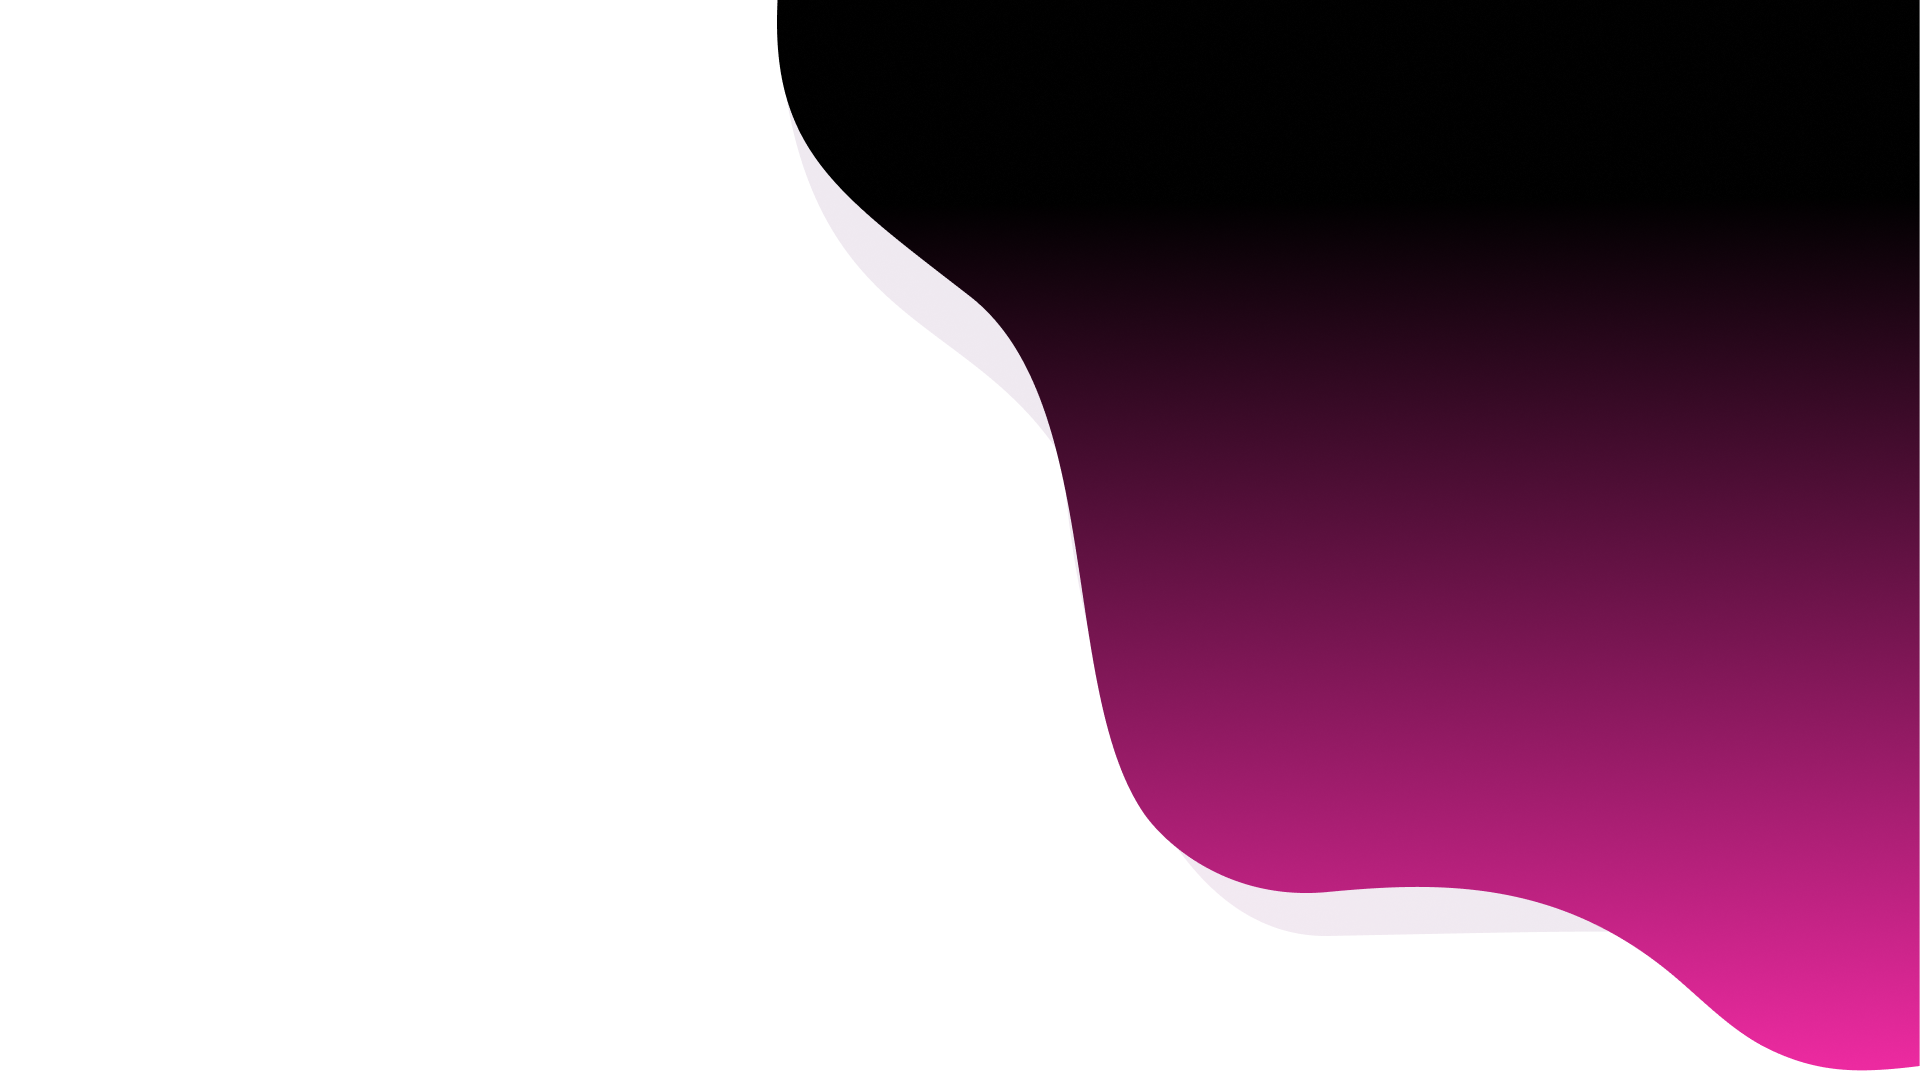
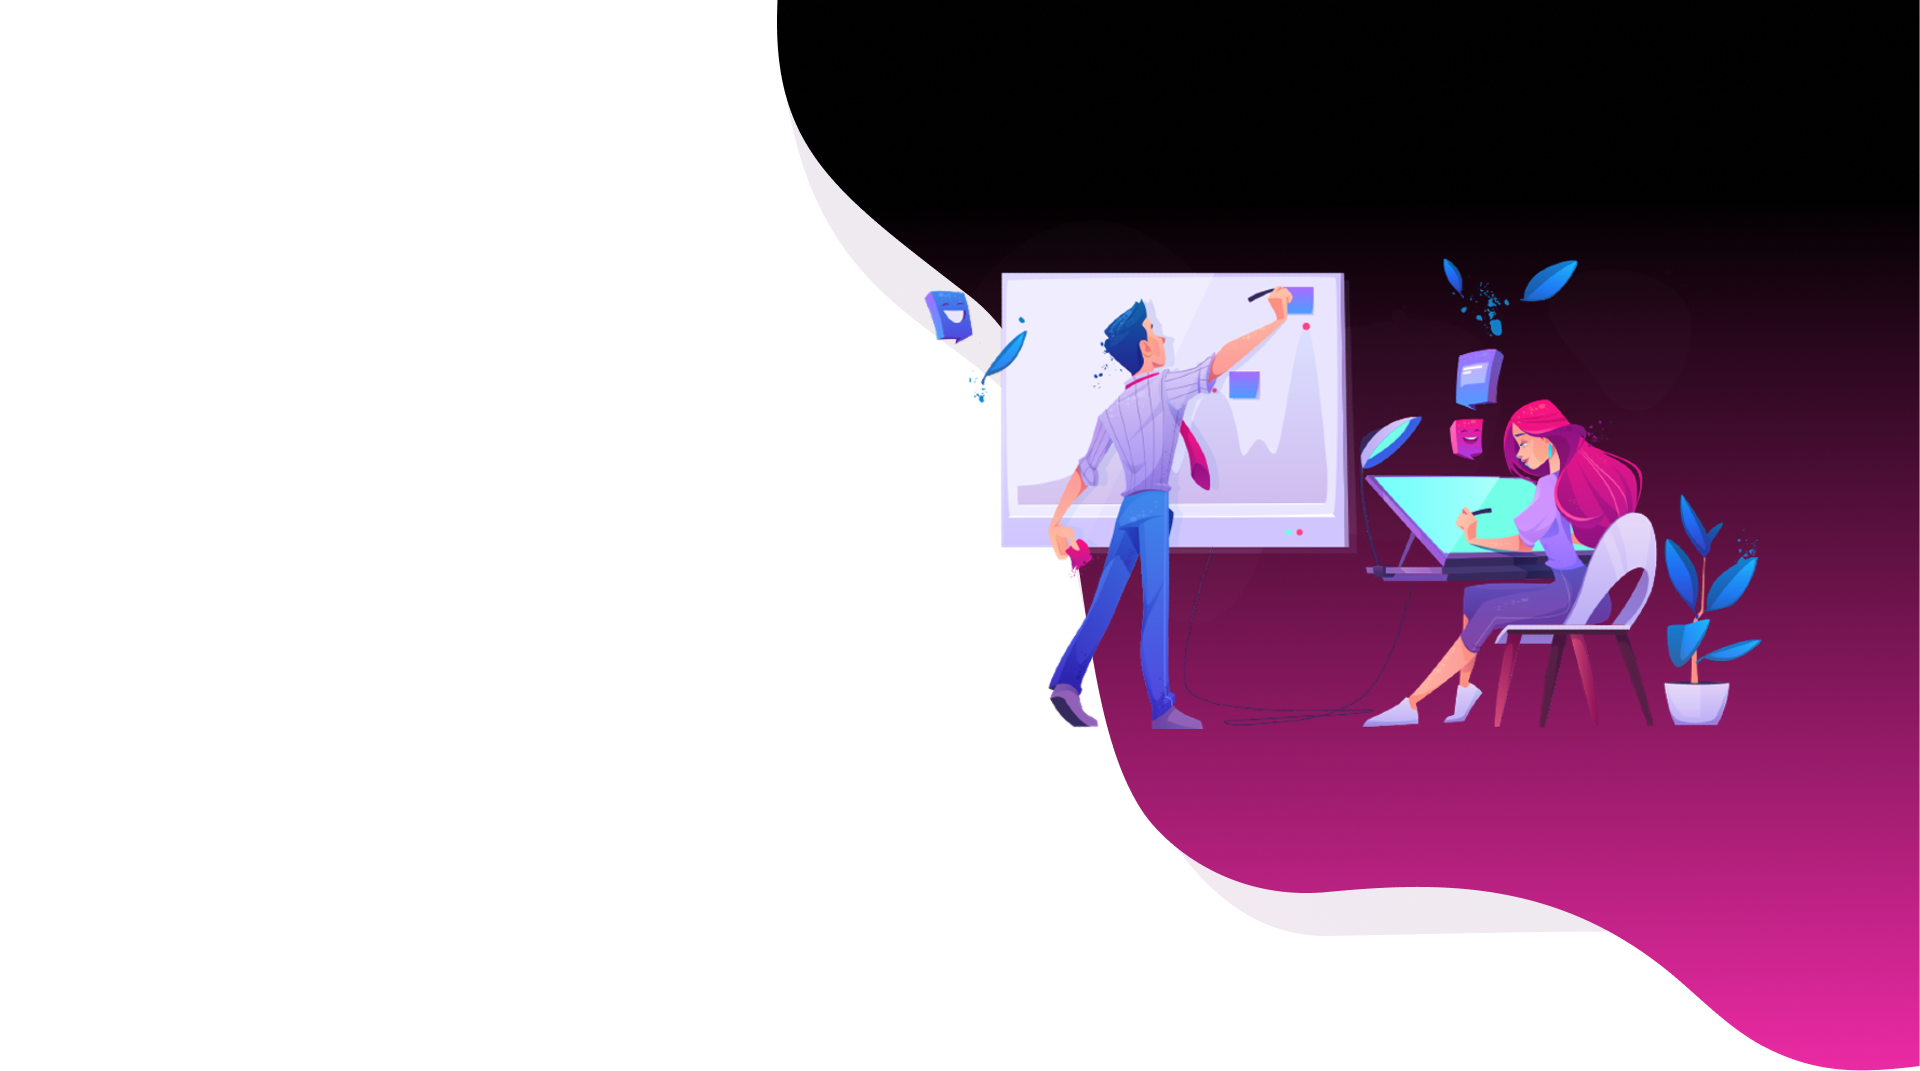
change home background image

Changed region(s): [[0.4688, 0.2465, 0.9375, 0.6779]]

diff --git a/public/assets/css/responsive.css b/public/assets/css/responsive.css
@@ -64,7 +64,7 @@ input#phoneHidden {
     .container-md,
     .container-lg,
     .container-xl {
-        max-width: 966px!important;
+        max-width: 1000px!important;
     }
 }
 
@@ -128,7 +128,11 @@ input#phoneHidden {
     .container-sm,
     .container-md,
     .container-lg {
-        max-width: 1020px!important;
+        /* max-width: 1020px!important; */
+        max-width: 1209px!important;
+    }
+    .nav-menu-fix23 {
+        width: 1024px;
     }
 }
 
@@ -377,7 +381,7 @@ input#phoneHidden {
         height: 60px!important;
     }
     .hero-banner-1 {
-        padding-top: 375px;
+        padding-top: 773px;
     }
 }
 
@@ -386,7 +390,7 @@ input#phoneHidden {
         margin: 52px 0 0 0!important;
     }
     .index-image-768 {
-        margin-top: -377px!important;
+        margin-top: -810px!important;
     }
     .contact-send-message {
         max-width: 50%!important;
@@ -428,7 +432,7 @@ input#phoneHidden {
         padding: 0 13px;
     }
     .navbar-expand-lg .navbar-nav li {
-        margin: 0 11px 0 0;
+        margin: 0 35px 0 0;
     }
     .course-item-01 {
         position: relative;
@@ -638,7 +642,7 @@ input#phoneHidden {
 
 @media (min-width: 768px) and (max-width: 991px) {
     .btn_class {
-        height: 60px!important;
+        height: 50px!important;
     }
     .course-wrapper {
         display: block;
@@ -1511,7 +1515,7 @@ input#phoneHidden {
         padding-top: 579px;
     }
     .index-image-768 {
-        margin-top: -686px!important;
+        margin-top: -545px!important;
     }
     .contact-send-message {
         max-width: 50%!important;
@@ -1565,7 +1569,7 @@ input#phoneHidden {
         padding: 276px 0 190px;
     }
     .hero-banner-1 {
-        padding-top: 662px;
+        padding-top: 455px;
         width: 100%;
     }
     .nav-menu-login-u {
@@ -1734,7 +1738,7 @@ input#phoneHidden {
         max-width: 57%!important;
     }
     button.btn.btn-primary.btn_class_coaches.search-box-font {
-        height: 60px!important;
+        height: 50px!important;
         background-color: #43329f!important;
     }
     .hero-banner-1 {
@@ -1832,8 +1836,8 @@ input#phoneHidden {
         margin-top: -477px;
     } */
     .mobile-menu-fix32 {
-        left: 512px;
-        width: 27%;
+        left: 705px;
+        width: 21%;
     }
     .contact-send-message {
         max-width: 50%!important;
@@ -1842,7 +1846,7 @@ input#phoneHidden {
         margin-top: -345px;
     }
     .location-search-coach-text {
-        margin-left: -19px;
+        /* margin-left: -19px; */
     }
     .join-btn01 {
         margin-left: 34px;
@@ -1919,14 +1923,14 @@ input#phoneHidden {
         margin-top: 0px;
     }
     .join-btn01 {
-        width: 76px;
-        margin-left: 13px;
+        width: 64px;
+        margin-left: 8px;
         position: relative;
-        height: 44px;
+        height: 40px;
         border-radius: 3px;
         text-align: center;
-        font-size: 16px;
-        line-height: 42px;
+        font-size: 13px;
+        line-height: 36px;
         font-weight: 700;
         padding: 0px 0px;
         color: #fff;
@@ -1951,7 +1955,7 @@ input#phoneHidden {
         width: 474px;
     }
     .btn_class {
-        height: 60px;
+        height: 50px;
         /* margin-left: 350px;
         margin-top: -70px; */
         background-color: #012245!important;
@@ -1980,7 +1984,7 @@ input#phoneHidden {
         width: 550px;
     }
     .search-box-font {
-        font-size: 14px!important;
+        font-size: 16px!important;
     }
 }
 

diff --git a/public/assets/css/theme.css b/public/assets/css/theme.css
@@ -469,6 +469,29 @@ nav.navbar.navbar-expand-md.navbar-light.dashboard-nav.mb-3.mb-lg-0 {
         padding-bottom: 70px;
         background: #ffffff;
     }
+    .search_box_filterss {
+        width: 853px!important;
+    }
+    input.search-box-for-main {
+        border-radius: 2px;
+        border: 1px solid #b1b1b1;
+        height: 90px!important;
+    }
+    .search-box-font {
+        font-size: 35px!important;
+    }
+    .btn_class {
+        height: 90px!important;
+        background-color: #012245!important;
+    }
+    .search-button-icon-width {
+        width: 58px!important;
+    }
+    .btn87 {
+        /* font-family: 'Montserrat', sans-serif; */
+        font-size: 27px!important;
+        padding: 8px 1px 7px 2px!important;
+    }
 }
 
 .hero-banner-245 {

diff --git a/public/assets/css/master.css b/public/assets/css/master.css
@@ -359,7 +359,7 @@ ul.width {
 input.search-box-for-main {
     border-radius: 2px;
     border: 1px solid #b1b1b1;
-    height: 60px;
+    height: 50px;
 }
 
 select.browser-default.custom-select {

diff --git a/public/assets/css/bootstrap.css b/public/assets/css/bootstrap.css
@@ -629,7 +629,7 @@ pre code {
     .container,
     .container-sm,
     .container-md {
-        max-width: 720px;
+        max-width: 910px;
     }
 }
 

diff --git a/resources/views/layouts/inc/header1.blade.php b/resources/views/layouts/inc/header1.blade.php
@@ -56,7 +56,7 @@ if (isset($multiCountriesIsEnabled) && $multiCountriesIsEnabled) {
     <div class="container">
         <div class="row">
             <div class="col-lg-12">
-                <nav class="navbar navbar-expand-lg">
+                <nav class="navbar navbar-expand-lg nav-menu-fix23">
                     <!-- logo Start-->
                     <a class="navbar-brand" href="index.html">
                         <img src="../assets/images/logo.png" alt="">
@@ -156,7 +156,7 @@ if (isset($multiCountriesIsEnabled) && $multiCountriesIsEnabled) {
 
                         @if (!auth()->check())
 
-                        <a href="#quickLogin" class="join-btn01" data-bs-toggle="modal">
+                        <a href="#quickLogin" class="join-btn01 " data-bs-toggle="modal">
                         Login</a>
                         
 

diff --git a/resources/views/home/index.blade.php b/resources/views/home/index.blade.php
@@ -54,14 +54,14 @@
                     </div>
 
                 </form>
-                <br>
+                <!-- <br> -->
                 <a href="{{'/register'}}" class="bisylms-btn">Ready to Get Started?</a>
             </div>
         </div>
 
         <div class="col-lg-7 col-md-7">
             <div class="banner-thumb">
-                <img src="../assets/images/home/layer.png" alt="">
+                <!-- <img src="../assets/images/home/layer.png" alt=""> -->
             </div>
         </div>
     </div>

diff --git a/resources/views/layouts/inc/header_new.blade.php b/resources/views/layouts/inc/header_new.blade.php
@@ -56,7 +56,7 @@ if (isset($multiCountriesIsEnabled) && $multiCountriesIsEnabled) {
     <div class="container">
         <div class="row">
             <div class="col-lg-12">
-                <nav class="navbar navbar-expand-lg">
+                <nav class="navbar navbar-expand-lg nav-menu-fix23">
                     <!-- logo Start-->
                     <a class="navbar-brand" href="index.html">
                         <img src="../assets/images/logo4.png" alt="">
